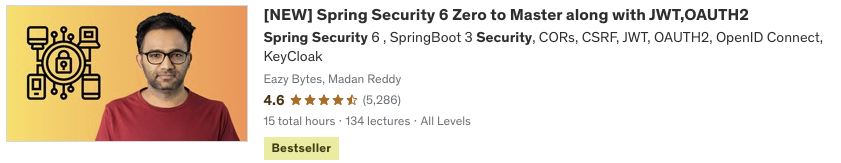
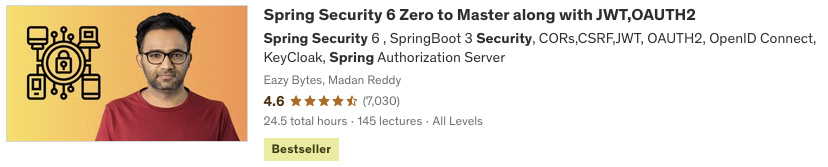
Thanks for choosing to learn from EazyBytes

Changed region(s): [[0.0, 0.0307, 0.9964, 0.9816]]

diff --git a/README.md b/README.md
@@ -1,6 +1,6 @@
 # Spring Security Zero to Master along with JWT,OAUTH2
 
-[![Image](https://github.com/eazybytes/springsecurity6/blob/3.2.0/Spring%20Security.png "Spring Security Zero to Master along with JWT,OAUTH2")](https://www.udemy.com/course/spring-security-zero-to-master/?referralCode=87DD08821FF0A3685D1C)
+[![Image](https://github.com/eazybytes/springsecurity6/blob/3.3.0/Spring%20Security.png "Spring Security Zero to Master along with JWT,OAUTH2")](https://www.udemy.com/course/spring-security-zero-to-master/?referralCode=87DD08821FF0A3685D1C)
 
 'Spring Security Zero to Master' course will help in understanding the Spring Security Architecture, important packages, interfaces, classes inside it which handles authentication and authorization requests in the web applications. It also covers most common security related topics like CORs, CSRF, JWT, OAUTH2, password management, method level security, user, roles & authorities management inside web applications.
 
